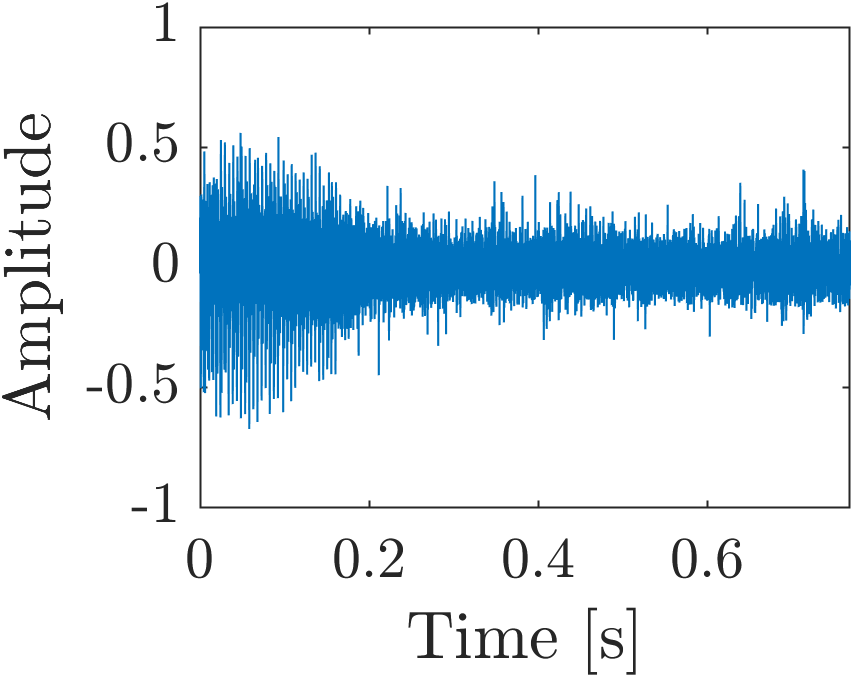
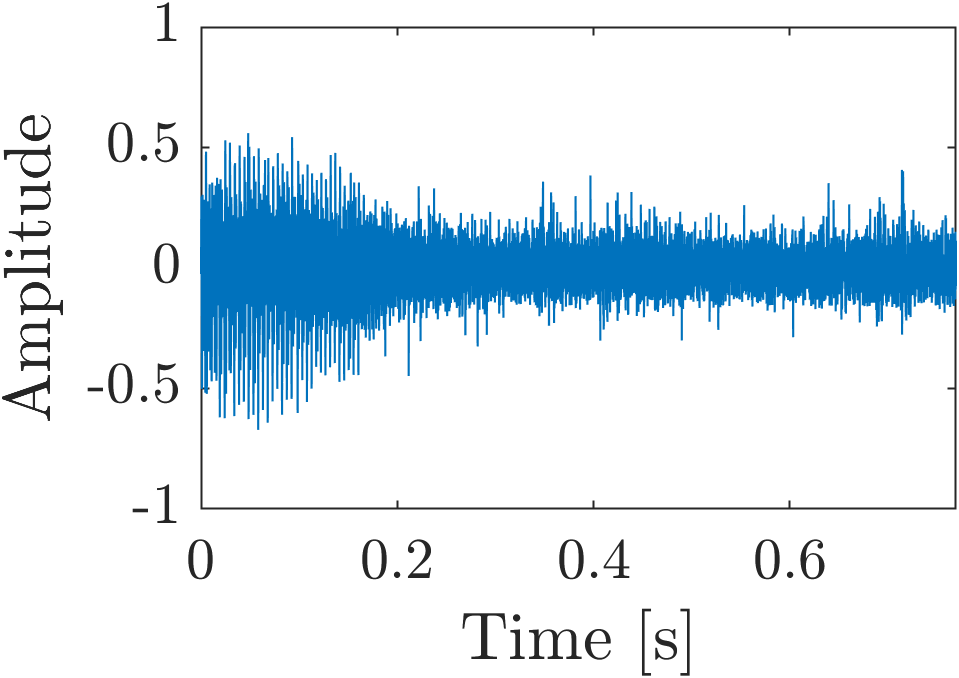
202609asjのスライド資料に軽微な修正

diff --git a/scripts/slides/202609asj/darknessProfile.m b/scripts/slides/202609asj/darknessProfile.m
@@ -112,8 +112,8 @@ p = origD.plotDarknessColumn(X_C,ShowTitle=false,ShowColorbar=false,ShowLineMark
 p.Color = LINE_COLOR; % 1の縦線と色を揃える
 hold(ax,"on");
 yline(ax,D_TH,"-","LineWidth",0.5,"Color","k");
-scatter(ax,sY,origD.dMat(sIdxBtm_C,X_C),MARKER_SIZE,"red","filled","o");
-scatter(ax,eY,origD.dMat(eIdxBtm_C,X_C),MARKER_SIZE,"yellow","filled","o","MarkerEdgeColor","k");
+scatter(ax,sY,origD.dMat(sIdxBtm_C,X_C),MARKER_SIZE+10,"red","filled","o");
+scatter(ax,eY,origD.dMat(eIdxBtm_C,X_C),MARKER_SIZE+10,"yellow","filled","o","MarkerEdgeColor","k");
 hold(ax,"off");
 
 xlim(ax,Y_VIEW);

diff --git a/scripts/slides/202609asj/fig6_spectrogramUpsampling.m b/scripts/slides/202609asj/fig6_spectrogramUpsampling.m
@@ -44,7 +44,7 @@ Y_VIEW = [-1 1];   % 表示するAmplitudeの範囲
 
 % 図のサイズ[cm]とフォントサイズ[pt]（スライド用の標準値）
 % 波形表示figure、スペクトログラム表示figureの大きさ
-FIG_W = [8, 8] ; FIG_H = [6, 10];
+FIG_W = [9, 8] ; FIG_H = [6, 10];
 FONT_TICK = 14; FONT_LABEL = 16;
 
 %% 音声データを読み込む

diff --git a/scripts/slides/202609asj/fig5_spectrogramComparisonOrigD.m b/scripts/slides/202609asj/fig5_spectrogramComparisonOrigD.m
@@ -31,6 +31,7 @@ Y_VIEW = [-1 1];   % 表示するAmplitudeの範囲
 FIG_W = [8.7, 10] ; FIG_H = [6, 8];
 FONT_TICK = 14; FONT_LABEL = 16;
 
+
 %% 音声データを読み込む
 matPath = cycleResultPath(proj.RootFolder,UPSAMPLING,DATE);
 result = loadCycleResult(matPath);
